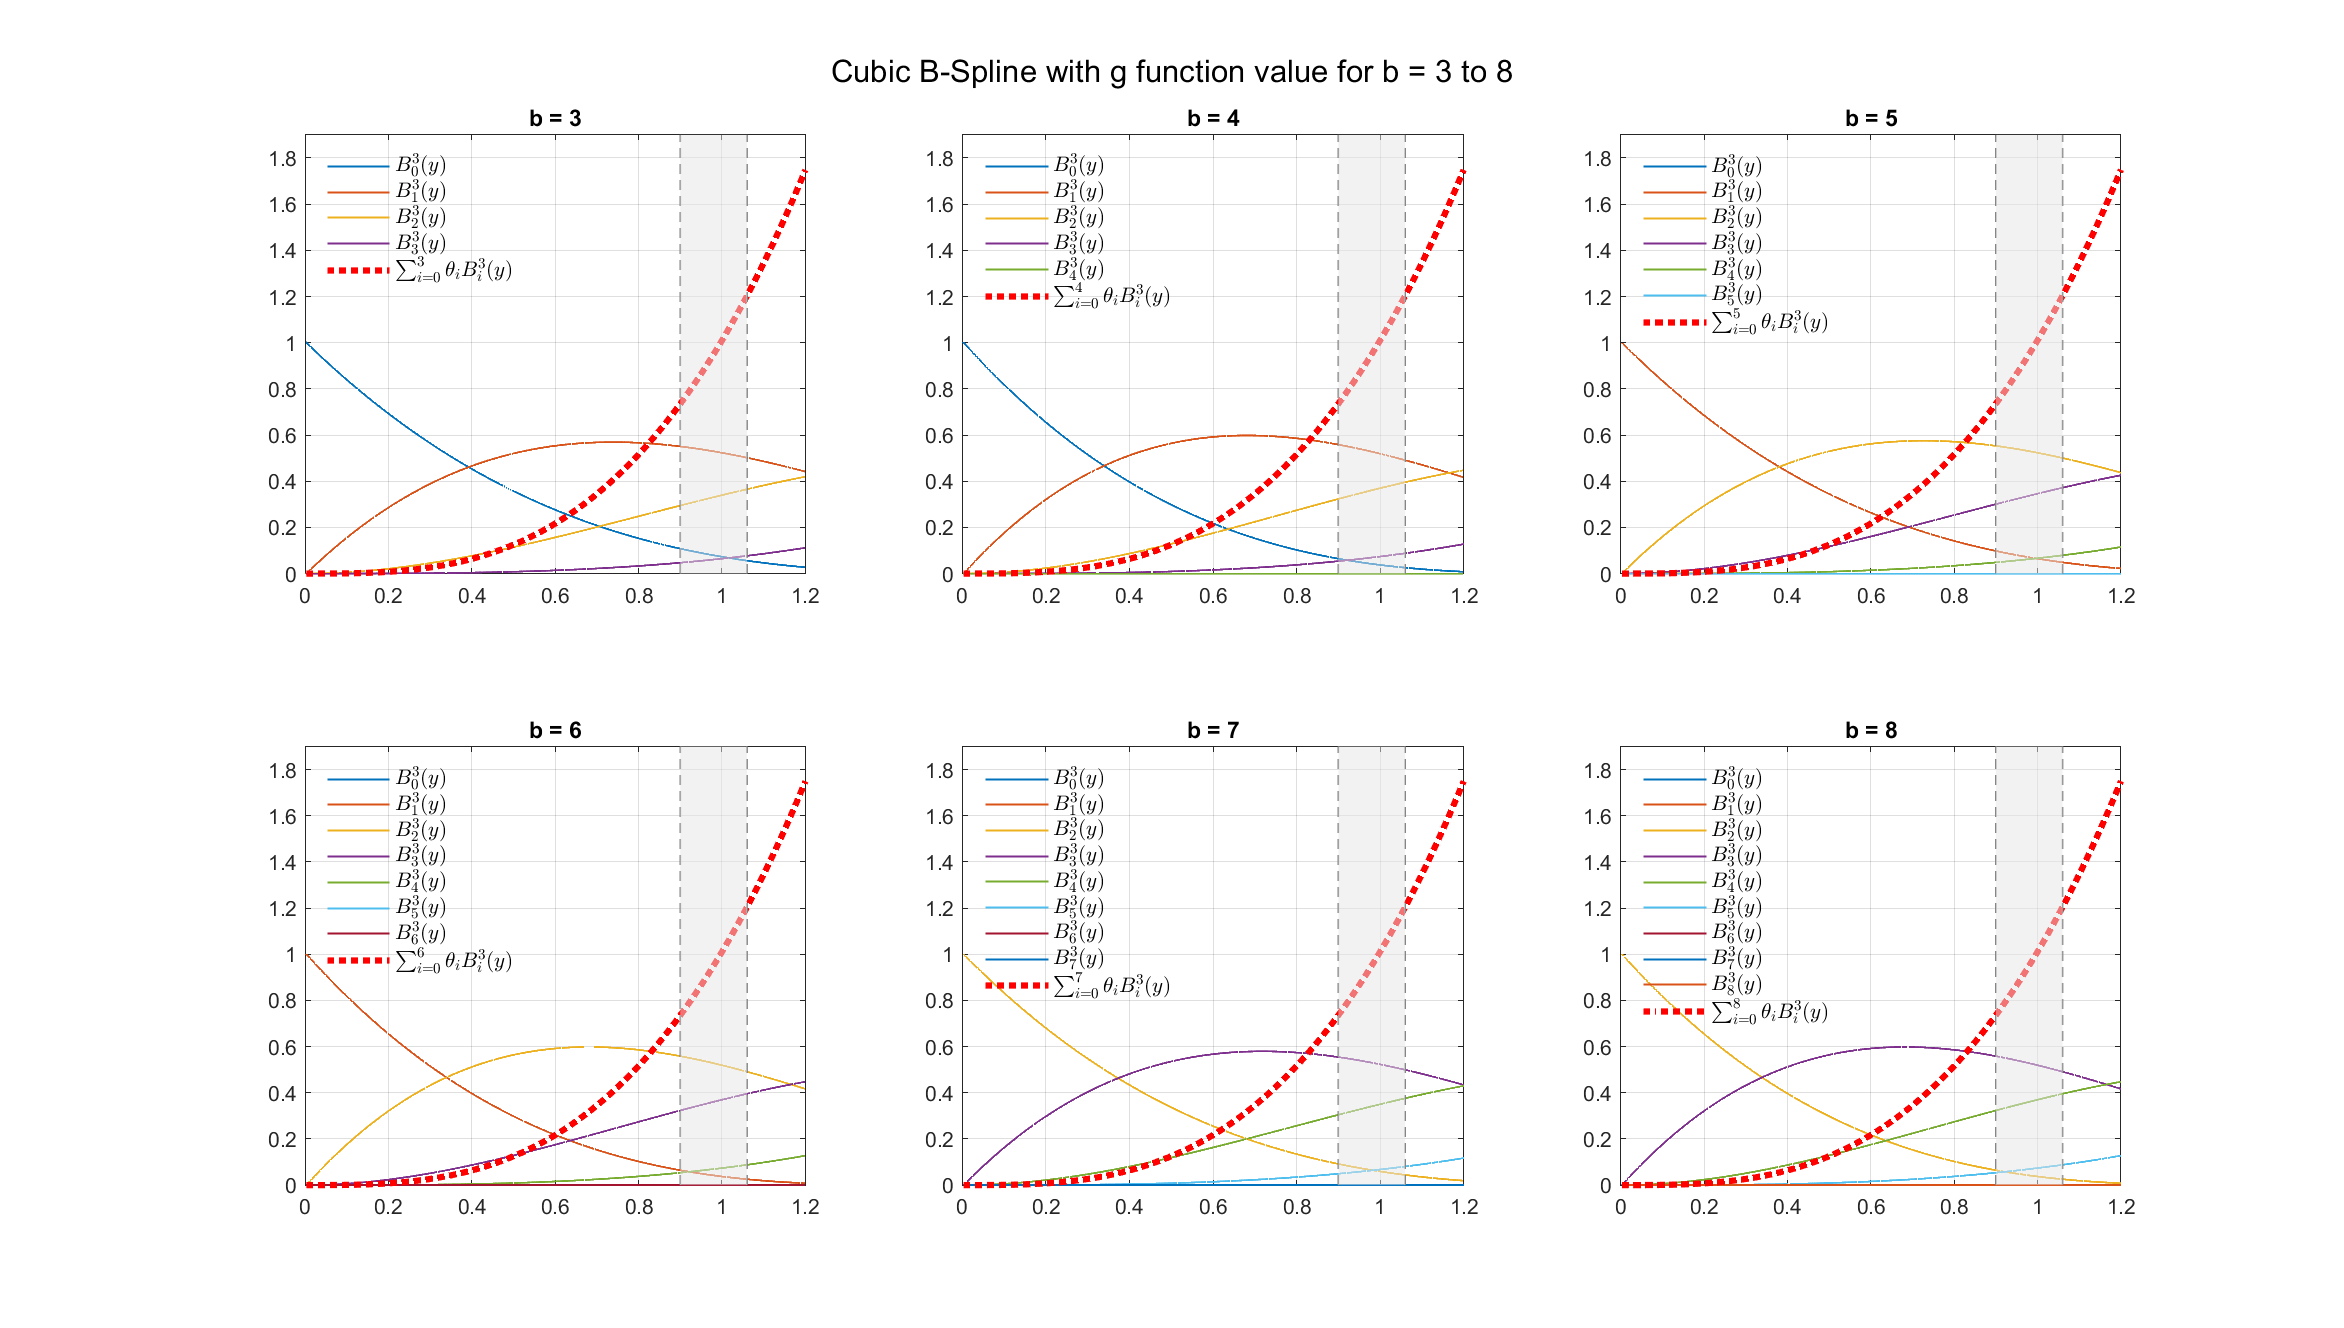
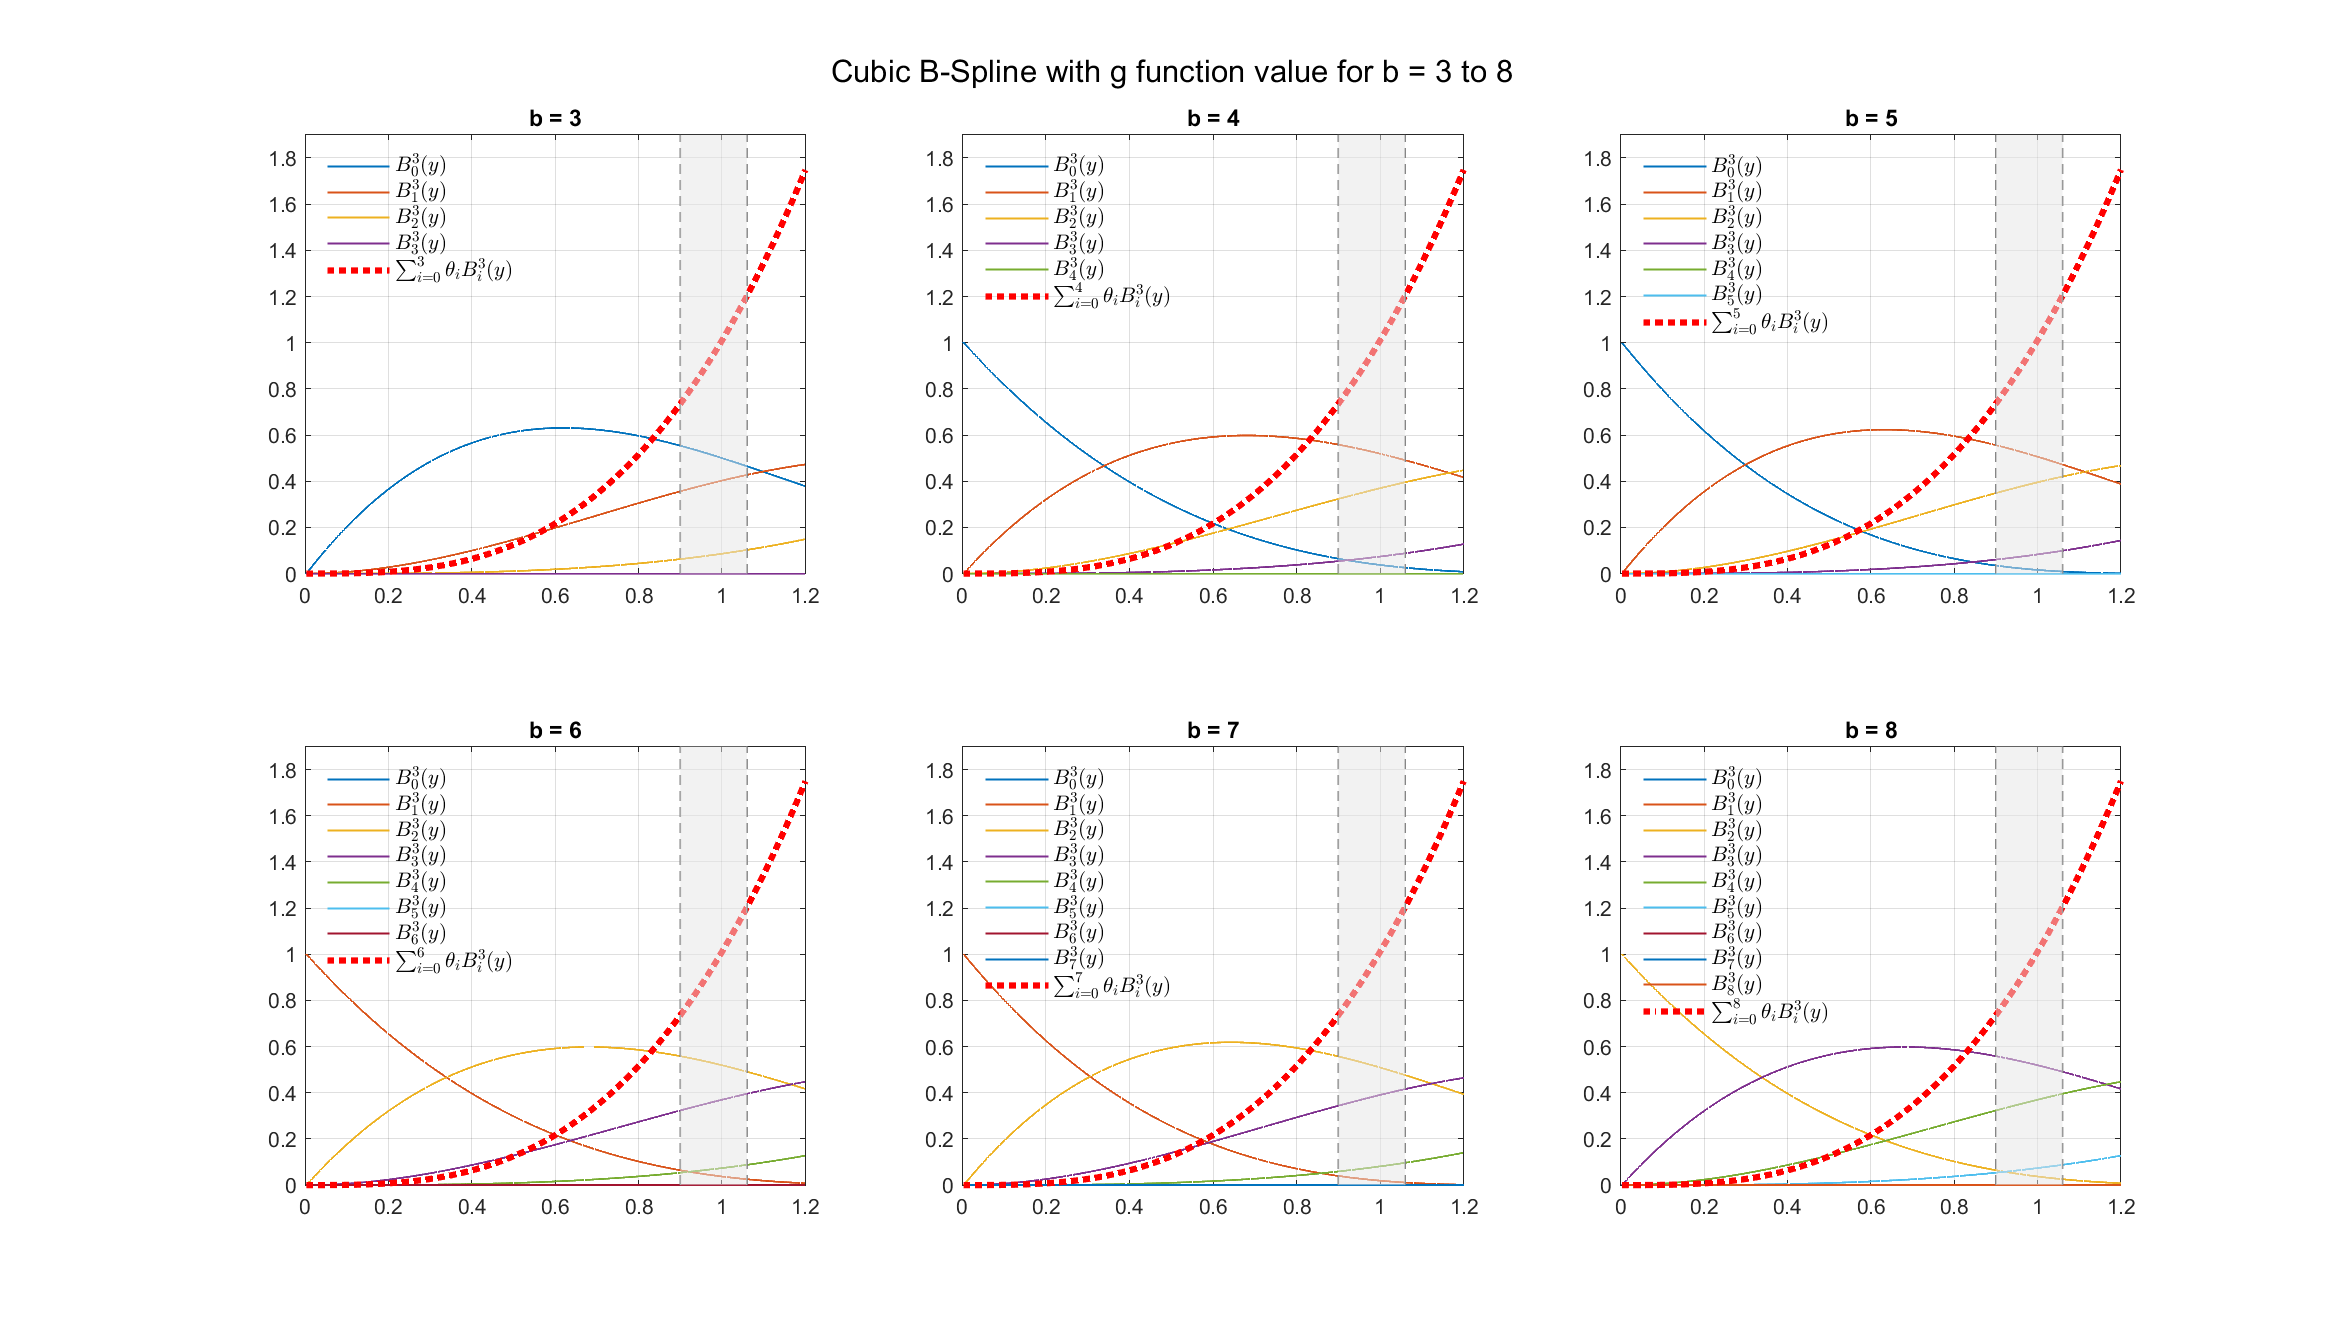
Correct the knots on the Right side of the inner point and re-estimate theta (floor)

diff --git a/03  條件密度積分方法（CDI method） - 2021 JBF/Bspline_basis_function_value.m b/03  條件密度積分方法（CDI method） - 2021 JBF/Bspline_basis_function_value.m
@@ -6,8 +6,8 @@ function B_value = Bspline_basis_function_value(n, b, min_knot, max_knot, functi
     knots = linspace(min_knot, max_knot, num_knots);
 
     % Find the index of inner knot points
-    middle_index = ceil((num_knots + 1) / 2);                                    % Way 1
-    % middle_index = floor((num_knots + 1) / 2);                                   % Way 2
+    % middle_index = ceil((num_knots + 1) / 2);                                    % Way 1
+    middle_index = floor((num_knots + 1) / 2);                                   % Way 2
     
     % Set the open uniform (left side)
     knots(1:(middle_index - 1)) = knots(1);
